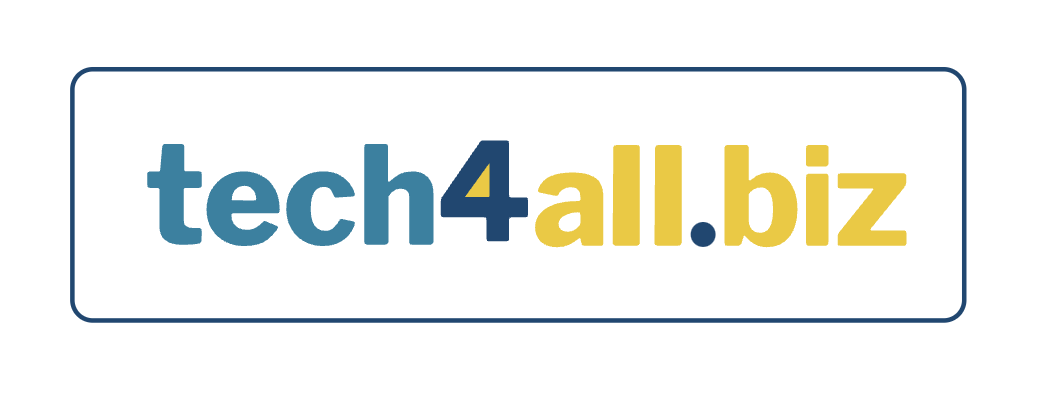
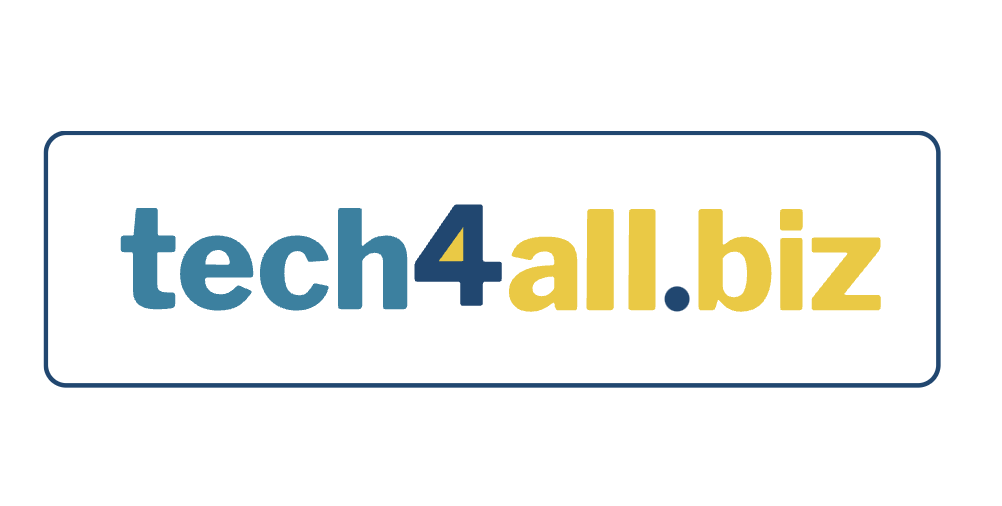
Adjust open graph image sizing.

Changed region(s): [[0.0309, 0.1463, 0.9591, 0.7902]]

diff --git a/app/layout.tsx b/app/layout.tsx
@@ -28,8 +28,8 @@ export const metadata: Metadata = {
       {
         url: "https://tech4all.biz/open-graph.png",
         secureUrl: "https://tech4all.biz/open-graph.png",
-        width: 1668,
-        height: 512,
+        width: 520,
+        height: 270,
         alt: "Preview image for Tech4all.biz",
       },
     ],
